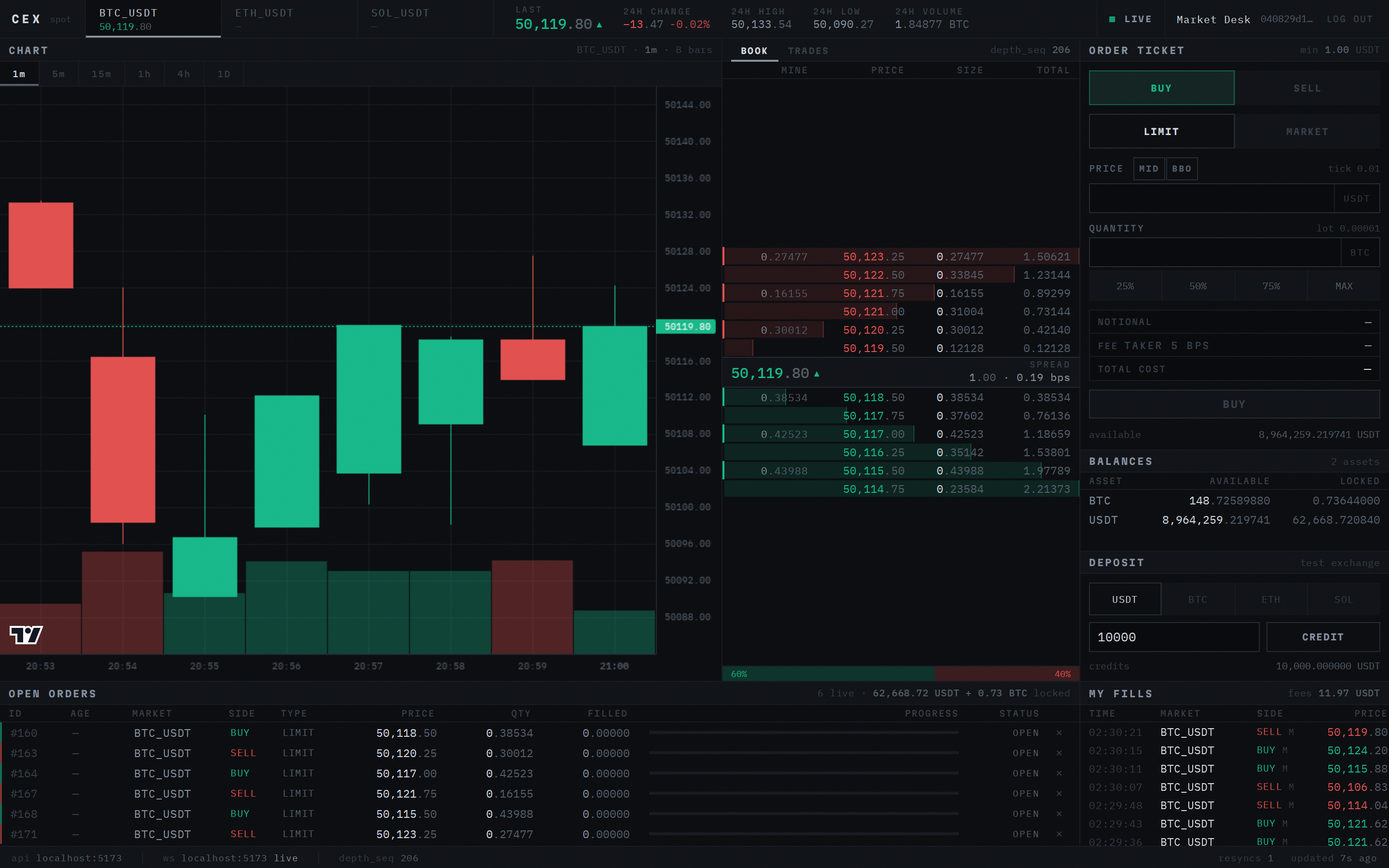
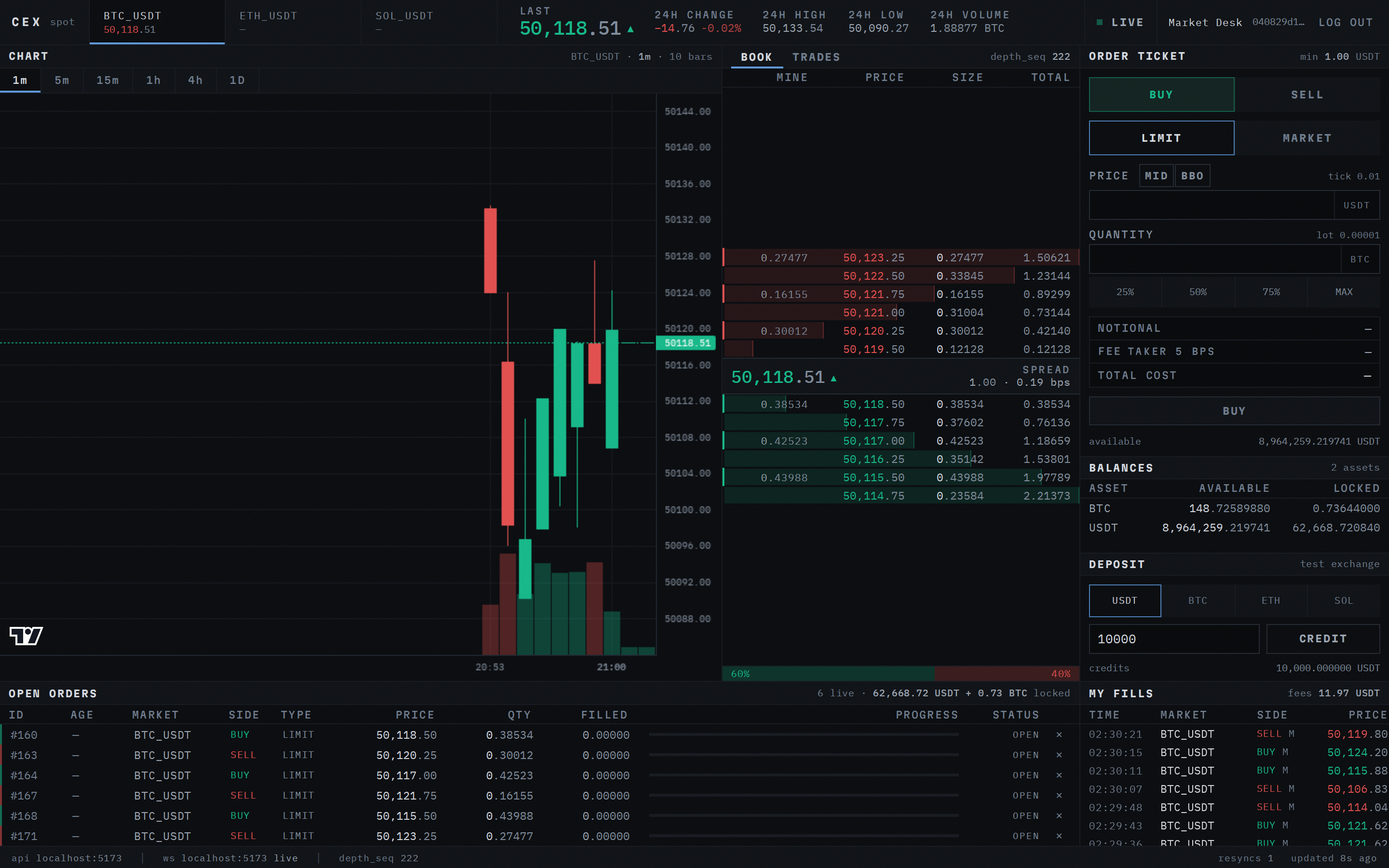
docs: record the contrast discipline and refresh the screenshot

diff --git a/README.md b/README.md
@@ -134,6 +134,16 @@ what sweeping to it would cost — cumulative size, cumulative cash, and the ble
 and the footer shows which side is holding more resting size. All of it comes off levels already
 on screen. The book and the tape share one column through the tabs in their panel head.
 
+**Every grey is solved, not chosen.** The four text greys are computed for a contrast ratio
+against the surface they actually sit on — `--panel-hi`, the lighter of the two, so nothing is
+short where the labels live — and the ramp bottoms out at 4.5:1. It did not used to: the two
+lowest steps were 2.9:1 and 1.8:1, and between them they carried every column heading and field
+label on the screen, so the structure was being drawn in a colour you could not quite see. Green
+and red mean *side* and nothing else, which left no colour for "you can press this" — hence a
+third hue, azure, for selection and focus only. A script walks the rendered page and checks all
+44 distinct text styles against WCAG AA rather than trusting the tokens in isolation, because the
+chart draws its axis labels into a canvas the DOM cannot see.
+
 **Nothing asks for an account until something moves money.** The book, the tape, the chart and
 the ticket are all usable signed out — the sign-in panel opens when BUY, SELL or CREDIT is
 pressed, not on arrival, and it can be dismissed. A page that demands credentials before it shows
